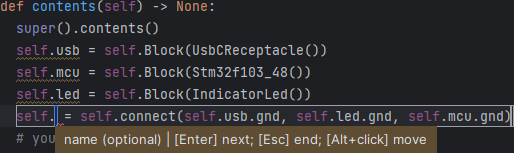
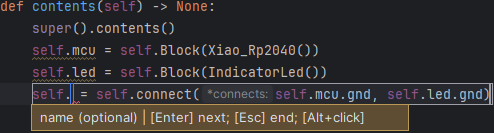
Update figures

diff --git a/edg/BoardTop.py b/edg/BoardTop.py
@@ -99,6 +99,7 @@ class JlcTopRefinements(BaseBoardTop):
                 (Diode, JlcDiode),
                 (Bjt, JlcBjt),
                 (Fet, JlcFet),
+                (LinearRegulator, Ams1117),
                 (Antenna, JlcAntenna),
                 (Fpc050Bottom, Afc01),
                 (Fpc050Top, Afc07Top),

diff --git a/getting-started.md b/getting-started.md
@@ -145,6 +145,8 @@ Try building the example now.
    Using interpreter from configured SDK [...]
    [... lots of compilation output here ...]
    Completed: generate netlist: wrote [...]
+   Completed: generate BOM: write [...]
+   Done
    ```
 4. Some options (like where the netlist is generated into) can be modified via the run options at the top right:  
    ![run menu](docs/ide/ide_run_config.png)
@@ -166,7 +168,7 @@ For this simple example, we connect an LED to a self-powered Xiao Rp2040 microco
 
 Let's start by instantiating the USB type-C receptacle through graphical operations in the IDE.
 1. In the Library Browser, search for the block (here, `Xiao_Rp2040`) using the Filter textbox:  
-   ![Library filtering by USB](docs/ide/ide_library_usbc.png)
+   ![Library filtering by xiao](docs/ide/ide_library_xiao.png)
 
    > The library icons have these meanings:
    > - ![Folder](docs/intellij_icons/AllIcons.Nodes.Folder.svg) (category): this "block" is actually a category organizer and cannot be instantiated.
@@ -175,11 +177,11 @@ Let's start by instantiating the USB type-C receptacle through graphical operati
 
 2. Double-click the library entry.
    This will insert the code to instantiate the block as a _live template_, code with template fields you can fill in:  
-   ![Live template example](docs/ide/ide_livetemplate_usbc.png)  
+   ![Live template example](docs/ide/ide_livetemplate_mcu.png)  
    **Editing outside the currently active template field (boxed in blue) will break off and cancel the template.**
    **Moving the cursor outside the currently active template field, either using the mouse or keyboard arrows, is discouraged.**
-3. Name the block `usb`, by typing it into the first template field.  
-   ![Live template example](docs/ide/ide_livetemplate_usbc_named.png)
+3. Name the block `mcu`, by typing it into the first template field.  
+   ![Live template example](docs/ide/ide_livetemplate_mcu_named.png)
 4. Then press [Tab] through the end of the template (leaving the other fields empty, they're optional).
 5. Once you commit the live template, the block will appear in the block diagram visualizer.
     - The hatched pattern (diagonal lines) in the block diagram visualizer indicates that the block may be out-of-sync with the code until the next re-compile.
@@ -215,7 +217,7 @@ First, we need to connect the power and ground between the devices.
 
 **Make these changes** to the `contents` method:
 ```diff
-  def contents() -> None:
+  def contents(self) -> None:
       super().contents()
       self.mcu = self.Block(Xiao_Rp2040())
       self.led = self.Block(IndicatorLed())
@@ -227,8 +229,7 @@ First, we need to connect the power and ground between the devices.
 1. Double click any of the ground ports (say, `mcu.gnd`).
    This starts a connection operation, which dims out the ports that cannot be connected:  
    ![Connection beginning](docs/ide/ide_connect_usbc_start.png)
-2. Select (single click) on all the other ground ports to be connected (here, just `led.gnd`):  
-   ![Connection with ports](docs/ide/ide_connect_usbc_all.png)
+2. Select (single click) the other ports to be connected (here, just `led.gnd`).
 3. Double-click anywhere (within a block) to complete and insert the connections as a live template.
    ![Connection live template](docs/ide/ide_livetemplate_gnd_connect.png)
    > - Double-click on a port to simultaneously select that port and complete and insert the connection.
@@ -242,14 +243,11 @@ First, we need to connect the power and ground between the devices.
 `self.connect(...)` connects all the argument ports together.
 Connections are strongly typed based on the port types: the system will try to infer a _link_ based on the argument port types and count.
 
-If using the IDE: the compiled block diagram should look like:  
-![Block diagrams with power connections](docs/ide/ide_blinky_connectpower.png)
-
 Then, we need to connect the LED to a GPIO on the microcontroller.
 Make these changes to the `contents` method:
 
 ```diff
-  def contents() -> None:
+  def contents(self) -> None:
       super().contents()
       self.mcu = self.Block(Xiao_Rp2040())
       self.led = self.Block(IndicatorLed())
@@ -262,6 +260,8 @@ Make these changes to the `contents` method:
 1. **Repeat the previous connect process**, but with `mcu.gpio` to `led.signal`.
    The microcontroller GPIO port ![port array symbol](docs/ide/ide_portarray.png) looks different as it is a dynamically sized port array.
    Connections into it ![port array symbol](docs/ide/ide_portarray_slice_min.png) `request(...)` a new element from the array.
+
+   Graphical port array connect operations are buggy. 
 2. Give the GPIO pin an (optional) name `led` by modifying the generated code:
    ```diff
    - self.connect(self.mcu.gpio.request(), self.led.signal)
@@ -301,7 +301,7 @@ Don't worry about installing it, in a few sections this will be replaced with a 
 
 In the KiCad standalone PCB Editor (layout tool), go to File > Import > Netlist..., and open the netlist file generated.
 KiCad will produce an initial placement that roughly clusters components according to their hierarchical grouping:
-![Blinky layout with default placement](docs/blinky_kicad.png)
+![Blinky layout with default placement](docs/kicad_blinky.png)
 
 The generated netlist preserves the design hierarchy.
 This works with KiCad 10+'s native design blocks feature (which is somewhat heavyweight) as well as the [Sublayout plugin](https://github.com/ducky64/sublayout) (more lightweight and limited).
@@ -322,7 +322,7 @@ __Now, we'll add a 3x2 switch matrix with just a few lines of code, this is wher
 
 **Make these changes** to the `contents` method:
 ```diff
-  def contents() -> None:
+  def contents(self) -> None:
       super().contents()
       self.mcu = self.Block(Xiao_Rp2040())
       self.led = self.Block(IndicatorLed())
@@ -334,11 +334,7 @@ __Now, we'll add a 3x2 switch matrix with just a few lines of code, this is wher
 +     self.connect(self.sw.rows, self.mcu.gpio.request_vector('rows'))
 ```
 
-<details> <summary>Alternatively, with IDE graphical edit actions</summary>
-
-TODO Write Me 
-
-</details>
+Array-array connect operations are not supported with graphical edit actions.
 
 `SwitchMatrix` is a generator block that takes the number of columns (width) and rows (height) as parameters and generates the switch matrix (including diodes for multi-key detection).
 For keyboard enthusiasts, this generates COL2ROW circuits.
@@ -350,7 +346,7 @@ Port arrays can be connected to other arrays, forming a parallel connection.
 Here, we connect `cols` (and `rows`) to the microcontroller, using `request_vector(...)` to request a new GPIOs the size of the incoming connection.
 
 If we load the netlist into KiCad, we get this:
-![Default SwitchMatrix Layout](docs/switchmatrix_kicad.png)
+![Default SwitchMatrix Layout](docs/kicad_switchmatrix.png)
 
 
 ## Abstract Parts and Refinements
@@ -364,7 +360,6 @@ Internally, SwitchMatrix uses the abstract `Switch` block, and `SimpleBoardTop` 
       def contents(self) -> None:
           ...
   
-+   @override
 +   def refinements(self) -> Refinements:
 +       return super().refinements() + Refinements(
 +           class_refinements=[
@@ -377,8 +372,10 @@ Internally, SwitchMatrix uses the abstract `Switch` block, and `SimpleBoardTop` 
 
 1. **Navigate into the switch in the switch matrix hierarchy and select it**.
    It is currently refined to a JlcSwitch, the tactile 5.1mm switch that is part of the JLC basic parts library.
+
    ![Switch design hierarchy](docs/ide/ide_designhierarchy_switch.png)
 2. **In the library, search for KailhSocket**, then right-click it and select "Refine class Switch to KailhSocket"
+
    ![KailhSocket refinement menu](docs/ide/ide_refine_switch.png) 
 
 </details>
@@ -387,7 +384,7 @@ Refinements allow specifying, at the top level, modifications across the design 
 Here, we override the default Switch refinement to use a mechanical keyswitch socket.
 
 If we load the netlist into KiCad, we get more reasonable components:
-![Refined SwitchMatrix Layout](docs/switchmatrix_refined_kicad.png)
+![Refined SwitchMatrix Layout](docs/kicad_switchmatrix_refined.png)
 
 After finishing this tutorial, see the [hierarchical layout tutorial](getting_started_hierarchy_layout.md) for speeding up layout using hierarchical layout replication.
 
@@ -403,7 +400,7 @@ Because blocks encapsulate their subcircuits, using a discrete microcontroller i
 **Make these changes** to the design:
 ```diff
   class BlinkyExample(SimpleBoardTop):
-      def contents() -> None:
+      def contents(self) -> None:
           super().contents()
 -         self.mcu = self.Block(Xiao_Rp2040())
 +         self.mcu = self.Block(IoController())
@@ -415,7 +412,6 @@ Because blocks encapsulate their subcircuits, using a discrete microcontroller i
           self.connect(self.sw.cols, self.mcu.gpio.request_vector('cols'))
           self.connect(self.sw.rows, self.mcu.gpio.request_vector('rows'))
     
-      @override
       def refinements(self) -> Refinements:
           return super().refinements() + Refinements(
               class_refinements=[
@@ -439,7 +435,7 @@ We'll add in the USB type-C port that was previously part of the Xiao, and conne
 **Make these changes** to the `contents` method:
 ```diff
   class BlinkyExample(SimpleBoardTop):
-      def contents() -> None:
+      def contents(self) -> None:
           super().contents()
           
 +         self.usb = self.Block(UsbCReceptacle())
@@ -463,7 +459,7 @@ We'll insert a simple linear regulator, a step-down voltage converter.
 **Make these changes** to the `contents` method:
 ```diff
   class BlinkyExample(SimpleBoardTop):
-      def contents() -> None:
+      def contents(self) -> None:
           super().contents()
           
           self.usb = self.Block(UsbCReceptacle())
@@ -491,7 +487,7 @@ Once we recompile, it should complete with no errors.
 
 If we load the netlist into KiCad, we get the discrete microcontroller and its bundles of capacitors.
 Because we used USB, the microcontroller subcircuit also automatically generated a crystal to meet USB timing requirements.
-![Refined SwitchMatrix Layout](docs/switchmatrix_discrete_kicad.png)
+![Refined SwitchMatrix Layout](docs/kicad_switchmatrix_discrete.png)
 
 After finishing this tutorial, see the [hierarchical layout tutorial](getting_started_hierarchy_layout.md) for speeding up layout by loading an existing microcontroller block layout.
 
@@ -503,7 +499,7 @@ This is supported through **mixins**.
 **Make these changes** to the `contents` method:
 ```diff
   class BlinkyExample(SimpleBoardTop):
-      def contents() -> None:
+      def contents(self) -> None:
           super().contents()
           
           self.usb = self.Block(UsbCReceptacle())
@@ -534,6 +530,15 @@ This is supported through **mixins**.
 +         self.connect(self.usb.pwr, self.npx_shift.pwr)
 +         self.connect(self.mcu.gpio.request('npx'), self.npx_shift.input)
 +         self.connect(self.npx_shift.output, sw_npx.npx_din)
+
+    def refinements(self) -> Refinements:
+        return super().refinements() + Refinements(
+            class_refinements=[
+                (IoController, Stm32f103_48),
+                (Switch, KailhSocket),
++               (Neopixel, Sk6812Mini_E),
+            ],
+        )
 ```
 
 Mixins are not supported with graphical edit actions.
@@ -546,6 +551,8 @@ We have also added a buffer (`L74Ahct1g125`) to shift the 3.3v logic level of th
 The RGBs datasheet defines their input thresholds as incompatible with 3.3v and this will generate ERC errors without the buffer.
 Go ahead and try it!
 
+We also add a refinement to use the SK6812-Mini-E, a through-board LED used on mechanical keyboards.
+
 
 ## Implicit Connections
 _The code is starting to get a bit long and tedious. We'll refactor that using implicit scopes, a syntactic sugar construct, to make it shorter and more readable._
@@ -553,7 +560,7 @@ _The code is starting to get a bit long and tedious. We'll refactor that using i
 **Replace** the `contents` method:
 ```python
 class BlinkyExample(SimpleBoardTop):
-    def contents() -> None:
+    def contents(self) -> None:
         super().contents()
         
         self.usb = self.Block(UsbCReceptacle())
@@ -623,7 +630,7 @@ Let's arbitrarily choose pins 26-29 for the LEDs.
 **Add a pin assignment for the STM32 in the refinements section**:
 ```diff
   class BlinkyExample(SimpleBoardTop):
-      def contents() -> None:
+      def contents(self) -> None:
         ...
         
       def refinements(self) -> Refinements: